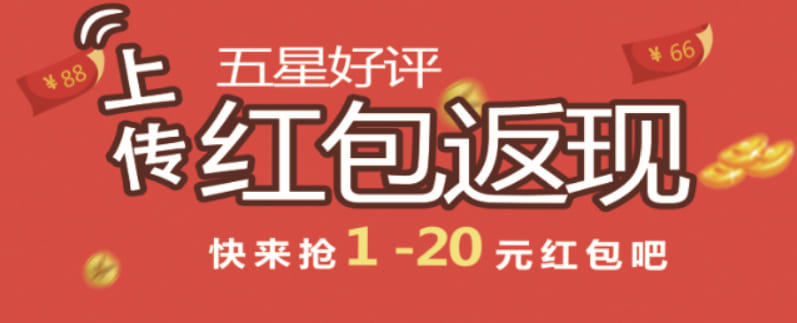
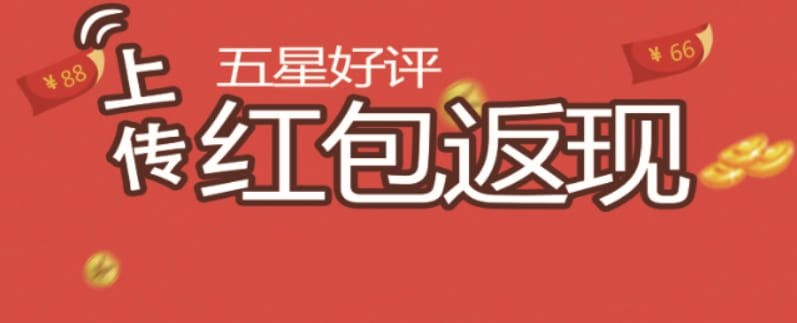
修改 home 页面的图片显示问题

Changed region(s): [[0.2409, 0.6811, 0.8432, 0.8359], [0.3915, 0.1548, 0.4216, 0.1858], [0.271, 0.2477, 0.3011, 0.2786]]

diff --git a/src/router.js b/src/router.js
@@ -111,44 +111,6 @@ const router = new Router({
  * 5.code 若不为 200 就不允许跳转，再次进行微信授权页面
  * */
 
-// 全局前置守卫
-// router.beforeEach(async (to, from, next) => {
-//   // 如果 meta.noAuth 是 true 就直接跳转，如果是 false ,就需要登录之后再跳转
-//   if (to.matched.some(recode => recode.meta.noAuth)) {
-//     next()
-//   } else {
-//     // localStorage 存储数据存在，就直接获取信息，然后跳转到相对应的页面
-//     if (localStorage.getItem('userInfo') && localStorage.getItem('userInfo') !== 'undefined') {
-//       next() // 进入 home 页面
-//       return
-//     }
-//     // localStorage 没有保存的信息就跳转到微信申请页面，redirectUrl 是返回当前页面，也就是好评返现的页面
-//     const activity = getUrlKey('activity')
-//     const code = getUrlKey('code')
-//     const redirectUrl = base.base + '/#/?activity=' + activity
-//     const appid = 'wx6a75c84b50b0939f'
-//     if (code === undefined) {
-//       const url = `http://www.yaoyaola.cn/index.php/exapi/checkuser?uid=30716&url=${redirectUrl}&flag=1`
-//       window.location.href = url
-//       // window.location.href = `https://open.weixin.qq.com/connect/oauth2/authorize?appid=${appid}&redirect_uri=${redirectUrl}&response_type=code&scope=snsapi_userinfo&state=123#wechat_redirect`
-//     }
-//     if (code !== undefined) {
-//       const token = localStorage.getItem('token')
-//       let { data } = await api.apply.auth({ code: code, appid: appid, redirect_uri: redirectUrl, token: token }) // 获取用户信息,后端可首先通过cookie,session等判断,没有信息则通过code获取
-//       if (data.code === 200) {
-//         localStorage.setItem('userInfo', data)
-//         localStorage.setItem('token', token)
-//         next()
-//       } else {
-//         const url = `http://www.yaoyaola.cn/index.php/exapi/checkuser?uid=30716&url=${redirectUrl}&flag=1`
-//         window.location.href = url
-//         // next()
-//         // window.location.href = `https://open.weixin.qq.com/connect/oauth2/authorize?appid=${appid}&redirect_uri=${redirectUrl}&response_type=code&scope=snsapi_userinfo&state=123#wechat_redirect`
-//       }
-//     }
-//   }
-// })
-
 router.beforeEach(async (to, from, next) => {
   // 如果 meta.noAuth 是 true 就直接跳转，如果是 false ,就需要登录之后再跳转
   if (to.matched.some(recode => recode.meta.noAuth)) {

diff --git a/src/views/home/index.vue b/src/views/home/index.vue
@@ -1,6 +1,9 @@
 <template>
   <div id="home">
-    <div id="imgbackGround"></div>
+    <div id="head">
+        <img src="../../assets/image/homeBackground.jpg" id="imgbackGround">
+        <h3>快来抢<span>{{price}}</span>元红包吧</h3>
+    </div>
     <div id="container">
         <van-field v-model="orderNum" placeholder="请输入长度为18的订单号" name="订单号" class="field"/>
               <van-row type="flex">
@@ -68,13 +71,26 @@ export default {
       showService: true,
       noshowService: false,
       maxSize: 1024 * 1024 * 2,
-      serviceQrCodeShow: false
+      serviceQrCodeShow: false,
+      price: '',
+      pack_type: 0,
+      pack_min_price: 0,
+      pack_max_price: 0
     })
   },
   async mounted () {
     const { data } = await this.$api.show.activityDetail(getUrlKey('activity'))
     if (data.code === 200) {
       this.activityDetail = data.data
+      // 当 pack_type 为 0，就是两个价格一杠，为 1 就是不一样
+      if (this.activityDetail.pack_type === 0) {
+        this.price = this.activityDetail.pack_min_price
+      }
+      if (this.activityDetail.pack_type === 1) {
+        this.price = this.activityDetail.pack_min_price + '-' + this.activityDetail.pack_max_price
+      }
+    } else {
+      console.log(data.data)
     }
   },
   computed: {
@@ -168,16 +184,30 @@ export default {
   #home {
       background-color: #d54c42;
       width: 100%;
+      max-width: 700px;
       height: 100%;
       background-size: 100% 100%;
       position: fixed;
       display: block;
 
-      #imgbackGround {
-          background-image: url("../../assets/image/homeBackground.jpg");
-          width: 100%;
-          height: 160px;
-          background-size: 100% 100%;
+      #head{
+          display: flex;
+          justify-content: center;
+          #imgbackGround {
+              width: 100%;
+              height: 200px;
+          }
+          h3{
+              position: absolute;
+              top: 125px;
+              color: #ececec;
+              span{
+                  padding-right: 10px;
+                  padding-left: 10px;
+                  font-size: 20px;
+                  color: #f2e27b;
+              }
+          }
       }
       #container {
           position: relative;

diff --git a/src/main.js b/src/main.js
@@ -5,9 +5,9 @@ import store from './store'
 import { Icon, Lazyload, Dialog } from 'vant'
 import api from './api' // 导入api接口
 // import './common/validate'
-import Vconsole from 'vconsole'
-
-const vConsole = new Vconsole()
+// import Vconsole from 'vconsole'
+//
+// const vConsole = new Vconsole()
 Vue.prototype.$api = api // 将api挂载到vue的原型上
 Vue.config.productionTip = false
 Vue.use(Icon)
